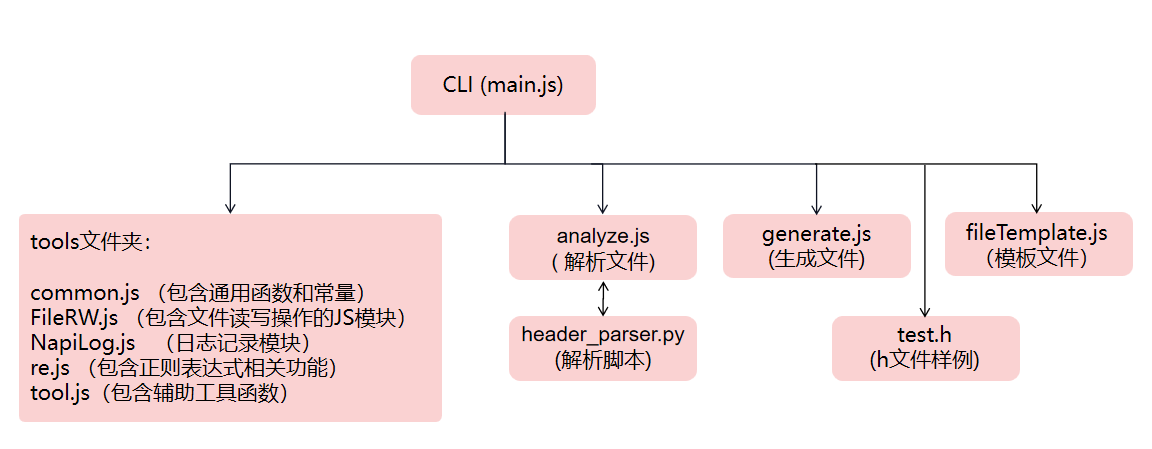
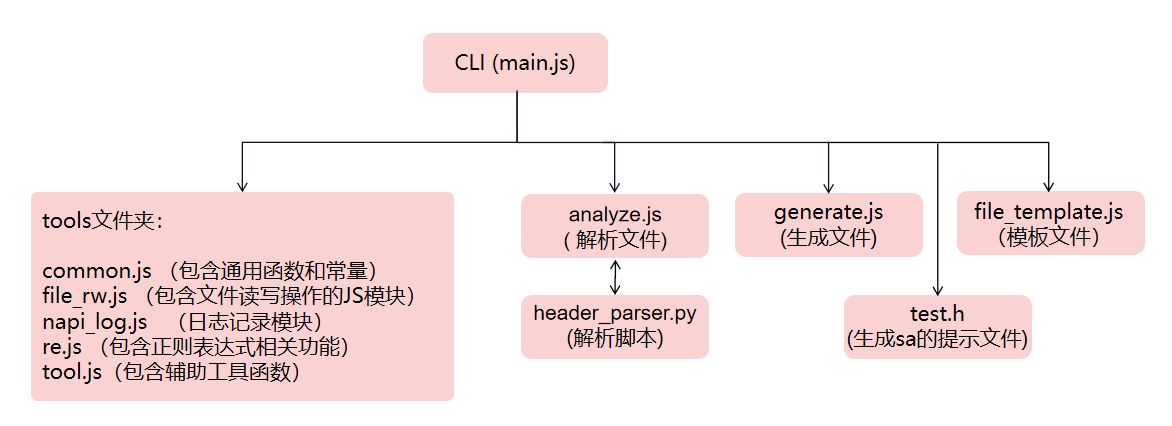
修改文件名 修改文档

Changed region(s): [[0.0, 0.061, 1.0, 0.946]]

diff --git a/src/cli/h2sa/src/gen/generate.js b/src/cli/h2sa/src/gen/generate.js
@@ -13,13 +13,13 @@
 * See the License for the specific language governing permissions and 
 * limitations under the License. 
 */
-const { NapiLog } = require('../tools/NapiLog');
+const { NapiLog } = require('../tools/napi_log');
 const { replaceAll, getTab } = require('../tools/tool');
 const re = require('../tools/re');
 const { iServiceHTemplate, proxyHTemplate, stubHTemplate, serviceHTemplate, proxyCppTemplate, proxyFuncTemplate,
     stubCppTemplate, stubInnerFuncTemplate, serviceCppTemplate, serviceFuncImplTemplate, clientCppTemplate, buildGnTemplate,
     buildGnTemplate41, bundleJsonTemplate, bundleJsonTemplate41, profileGnTemplate, profileGnTemplate41, profileJsonTemplate,
-    profileXmlTemplate, serviceCfgTemplate, serviceCfgTemplate41, serviceCfgGnTemplate, iServiceCppTemplate } = require('./fileTemplate');
+    profileXmlTemplate, serviceCfgTemplate, serviceCfgTemplate41, serviceCfgGnTemplate, iServiceCppTemplate } = require('./file_template');
 const { DATA_W_MAP, DATA_R_MAP, VECTOR_W_MAP, VECTOR_R_MAP, getParcelType, AllParseFileList, MarshallInfo,
     ProcessingClassList } = require('../tools/common');
 const numericTypes = ['short', 'int', 'long', 'long long', 'float', 'double'];

diff --git a/src/cli/h2sa/src/gen/main.js b/src/cli/h2sa/src/gen/main.js
@@ -17,17 +17,17 @@ const stdio = require('stdio');
 const fs = require('fs');
 const re = require('../tools/re');
 
-const { NapiLog } = require('../tools/NapiLog');
+const { NapiLog } = require('../tools/napi_log');
 const { print } = require('../tools/tool');
 const analyze = require('./analyze');
 const gen = require('./generate');
-const { writeFile, createFolder } = require('../tools/FileRW');
+const { writeFile, createFolder } = require('../tools/file_rw');
 
 let ops = stdio.getopt({
     'filename': { key: 'f', args: 1, description: '.h file', default: '' },
     'out': { key: 'o', args: 1, description: 'output directory', default: '.' },
     'loglevel': { key: 'l', args: 1, description: 'Log Level: 0~3', default: '1' },
-    'serviceId': { key: 's', args: 1, description: 'service register id: 9000~16777214', default: '9000' },
+    'serviceId': { key: 's', args: 1, description: 'service register id: 9000~16777214', default: '19000' },
     'versionTag': { key: 'v', args: 1, description: 'version tag: 4.1 / 3.2', default: '3.2' }
 });
 

diff --git a/src/cli/h2sa/src/gen/analyze.js b/src/cli/h2sa/src/gen/analyze.js
@@ -12,7 +12,7 @@
 * See the License for the specific language governing permissions and 
 * limitations under the License. 
 */
-const { NapiLog } = require('../tools/NapiLog');
+const { NapiLog } = require('../tools/napi_log');
 const fs = require('fs');
 const os = require('os');
 const { AllParseFileList } = require('../tools/common');

diff --git a/src/cli/h2sa/docs/usage/usage.md b/src/cli/h2sa/docs/usage/usage.md
@@ -1,193 +1,83 @@
-### Usage Guide
+## Develop Guide
 
-## 简介
+### service代码生成工具使用场景
 
-h2sa工具，即SERVICE框架生成工具，当开发者为OpenHarmony系统框架开发某些功能时，有时需要将这个功能包装成一个独立的服务进程运行在系统中，为了其它应用进程能够调用此服务，开发人员需要基于系统IPC通信框架编写一套远程接口调用实现。实现Service远程调用接口需要开发人员熟悉IPC通信框架，了解proxy/stub的继承与实现方式，掌握C++类型转为MessageParcel数据包的各种API方法，有一定的学习成本。而Service代码生成工具能够帮助使用者生成框架代码，提升开发效率。用户只需提供一个定义远程方法的.h头文件，工具会自动生成整个Service框架的代码，包含Ability注册、proxy/stub类实现、MessageParcel数据包构造、Service子系统编译及开机自启动相关配置文件。
+       当开发人员为OpenHarmony系统框架开发某些功能时，有时需要将这个功能包装成一个独立的服务进程运行在系统中，为了其它应用进程能够调用此服务，开发人员需要基于系统IPC通信框架编写一套远程接口调用实现。     Service代码生成工具能够帮助用户生成框架代码，提升开发效率。用户只需提供一个定义远程方法的.h头文件，工具会自动生成整个Service框架的代码，包含Ability注册、proxy/stub类实现、MessageParcel数据包构造、Service子系统编译及开机自启动相关配置文件。用户可基于框架代码专注于业务功能的编写。
 
-## 约束
+![image](../figures/service_file.png)
 
-系统：建议Ubuntu 20.04或者Windows 10
+---
 
-依赖版本：VS Code 1.62.0
+### service工具代码框架说明
 
-## 使用方法
+~~~
+napi_generator\src\cli\h2sa
 
-#### 命令行
+h2sa
+├── docs                                      //文档      
+├── README_ZH.md                              //usage,使用说明
+├── package.json                          //Node.js打包配置文件
+└── src
+    ├── gen
+    │   ├── analyze.js                    //包含用于分析C++头文件的逻辑。读取头文件内容；解析文件以提取类、方法、参数等信息。
+    │   ├── file_template.js               //包含生成代码时使用的模板字符串。模板中的占位符将在代码生成过程中被实际的数据替换，以生成所需的代码文件。（之后换成inl或者tmpl模板文件，并分出不同版本的文件夹，不同类型的文件）
+    │   ├── generate.js                   //包含核心的代码生成逻辑。调用analyze.js来获取分析结果；使用fileTemplate.js中的模板和分析结果来生成代码。
+    │   ├── header_parser.py              //脚本，与analyze.js协同工作，用于解析C++头文件
+    │   └── test.h                        //生成sa的提示文件
+    │   └── main.js                       //项目的入口。初始化日志记录和其它工具；解析命令行参数，以确定用户想要执行的操作；调用generate.js来启动代码生成过程。
+    └── tools
+            ├── common.js                     //包含整个项目中使用的通用函数和常量
+            ├── file_rw.js                     //包含文件读写操作的JavaScript模块
+            ├── napi_log.js                    //日志记录模块
+            ├── re.js                         //包含正则表达式相关功能的模块
+            └── tool.js                       //包含一些辅助工具函数
+~~~
 
-1. 安装python库 CppHeaderParser
+### 运行逻辑
 
-   ~~~
-   pip install CppHeaderParser
-   ~~~
+![image](../figures/service_runLogic.png)
 
-2. 安装typescript：在napi_generator/src/cli/h2sa/src目录下执行命令
+main.js为脚本入口，其中使用stdio.getopt获取参数，其中,参数详情如下： 
 
-   ~~~
-   npm i typescript
-   ~~~
-
-3. 安装stdio：在napi_generator/src/cli/h2sa目录下执行命令
-
-   ~~~
-   npm i stdio
-   ~~~
-
-4. 在napi_generator/src/cli/h2sa/src/gen目录下执行命令生成service框架代码：
-
-   ~~~
-   node main.js -f test.h
-   ~~~
-
-   其中,参数详情如下： 
    -f，定义远程服务的.h文件； 
-   -l，可选参数，日志级别（0-3），默认为1； 
-   -o，可选参数，生成框架代码输入到指定路径下； 
-   -s，可选参数，指定serviceID。 
-   -v，可选参数，指定版本（3.2和4.1，默认版本为3.2） 
 
-#### 生成物
+   -l,  日志级别（0-3），默认为1； 
 
-1. 输出testservice文件夹，其中的文件如下所示：
+   -o, 生成框架代码输入到指定路径下； 
 
-   ![](../figures/h2sa_outRes.png)
+   -s, 指定serviceID。 -
 
-   ~~~
-   ├── BUILD.gn                                             # 整个服务的编译文件，包含2个内容:1)服务端程序动态库编译  2)客户端可执行程序编译
-   ├── bundle.json                                          # 将服务包装成一个OpenHarmoney子系统组件，提供相关信息
-   ├── etc                                                  # 服务启动配置目录，如果服务不需要开机自动启动，可以删除此目录。
-   │   ├── BUILD.gn
-   │   └── test_service.cfg                                 # 服务自启动配置文件，编译烧录后会在/ect/init/下生成xxx_service.cfg启动文件
-   ├── include
-   │   ├── test_service.h                                   # 服务端头文件
-   │   ├── test_service_proxy.h                             # proxy 客户端头文件，为开发人员封装remote请求发送的处理
-   │   └── test_service_stub.h                              # stub 服务端头文件，为开发人员封装remote请求接收的处理
-   ├── interface
-   │   └── i_test_service.h                                 # 由用户提供的.h文件生成的remote接口文件，stub和proxy都基于此文件实现接口。
-   ├── sa_profile                                           
-   │   ├── 9000.json                                        # 服务配置文件
-   │   └── BUILD.gn                                      
-   └── src
-       ├── i_test_service.cpp                               # 接口实现文件
-       ├── test_client.cpp                                  # 客户端程序
-       ├── test_service.cpp                                 # 服务端程序
-       ├── test_service_proxy.cpp                           # 客户端代理实现
-       └── test_service_stub.cpp                            # 服务端 stub 实现
-   ~~~
+   -v, 指定版本（3.2和4.1，默认版本为3.2） 
 
-#### 应用和验证
+~~~
+let ops = stdio.getopt({
+    'filename': { key: 'f', args: 1, description: '.h file', default: '' },
+    'out': { key: 'o', args: 1, description: 'output directory', default: '.' },
+    'loglevel': { key: 'l', args: 1, description: 'Log Level: 0~3', default: '1' },
+    'serviceId': { key: 's', args: 1, description: 'service register id: 9000~16777214', default: '9000' },
+    'versionTag': { key: 'v', args: 1, description: 'version tag: 4.1 / 3.2', default: '3.2' }
+});
+~~~
 
-1. 将生成的testservice文件夹放在对应版本的源码根目录下
+### 开发指导
 
-2. 修改服务配置文件
+#### 适配新版本
 
-   在foundation/systemabilitymgr/samgr/interfaces/innerkits/samgr_proxy/include/system_ability_definition.h增加以下一行：
+用户可对工具进行二次开发。例如：当前工具适配的源码版本是4.1，需要适配其它版本时，可修改以下文件进行适配：
 
-   ```
-   TEST_SERVICE_ID                 = {serviceID},    //保证ID没有重复即可，例如：9016
-   ```
+**9月份会进行代码去重整改，预估适配方式如下，整改后如有出入，会进行修改**
 
-3. 修改子系统配置文件
+1.在main.js中，在allowedVersion数组中加入适配的版本号，如4.1统一为v4_1, 5.0统一为v5_0。
 
-   在build/subsystem_config.json中增加以下内容。
+2.在file_template.js中，以适配5.0源码为例，新增v5_0版本对应的bundle.json模板，对应的BUILD.gn模板；新增5.0版本的bundle.json,BUILD.gn模板路径。
 
-   ```
-   "testservice": {
-     "path":"testservice",
-     "name": "testservice" 
-   }
-   ```
+3.在generate.js中，在doGenerate方法、genFilesByTemplate方法、genFileNames方法中修改相应代码：当rootInfo.version为v5_0时，替换对应的BUILD.gn, bundle.json模板路径。
 
-4. 修改产品配置，如rk3568
+4.适配新版本需要增加其它配置，可在file_template.js中增加配置模板，并增加配置文件模板的路径，在generate.js中生成配置文件。
 
-   在vendor/kaihong/rk3568/config.json中增加以下内容：
+#### RoadMap
 
-   ```
-   {  
-    "subsystem": "testservice", 
-    "components": [
-     {
-      "component": "testservice_part",
-      "features": []
-     }
-    ]
-   }
-   ```
-
-5. 修改权限配置
-
-   在相应的产品目录的vendor/kaihong/rk3568/security_config/high_privilege_process_list.json中增加以下内容：
-
-   ```
-   {
-     "name": "testservice", 
-     "uid": "system",
-     "gid": ["root", "system"]
-   }
-   ```
-
-6. selinux权限配置
-
-   vendor/hihope/rk3568/config.json中"build_selinux"属性若为true， 即要配置selinux权限，应修改以下文件；若为false，无需修改
-
-   >   1. testservice/etc/sample_service.cfg
-   >
-   >      ```
-   >      "secon" : "u:r:testservice:s0"
-   >      ```
-   >
-   >   2. base/security/selinux_adapter/sepolicy/base/public/service_contexts
-   >
-   >      ```
-   >      9016                 u:object_r:sa_testservice:s0
-   >      ```
-   >
-   >   3. base/security/selinux_adapter/sepolicy/base/public/service.te
-   >
-   >      ```
-   >      type sa_testservice, sa_service_attr;
-   >      ```
-   >
-   >   4. base/security/selinux_adapter/sepolicy/ohos_policy/startup/init/system/init.te
-   >
-   >      ```
-   >      allow init testservice:process { getattr rlimitinh siginh transition };
-   >      ```
-   >
-   >   5. base/security/selinux/sepolicy/base/public/type.te
-   >
-   >      ```
-   >      type testservice, sadomain, domain;
-   >      ```
-   >
-   >   6. /base/security/selinux/sepolicy/base/te目录下增加新service的te文件，新增文件名即为服务名，例如：testservice.te
-   >
-   >      ```
-   >      allow testservice init_param:file { map open read };
-   >      allow testservice sa_testservice:samgr_class { add get };
-   >      ```
-
-7. 编码完成后，执行镜像编译命令
-
-   ~~~
-   ./build.sh --product-name 产品名
-   
-   若编译rk3568开发板，则执行
-   ./build.sh --product-name rk3568
-   ~~~
-
-8. 烧录镜像
-
-9. 运行验证
-
-   >验证一： shell登录开发板。 查看服务端进程是否已正常启动
-   >
-   >~~~
-   >ps -ef | grep testservice
-   >system         288     1 0 00:02:13 ?     00:00:00 testservice_sa  --- 服务进程已正常运行
-   >~~~
-   >
-   >验证二：运行客户端
-   >
-   >~~~
-   >/system/bin/testclient 
-   >~~~
+| 时间点 | 预期任务                                                     | 验收标准                                                     | 完成情况      |
+| :----- | ------------------------------------------------------------ | ------------------------------------------------------------ | ------------- |
+| 9月份  | 1，代码去重方案提供（不同版本模板，proxy-stub框架，hidumper框架，hitrace）；<br />2，适配5.0release版本，增加代码中hidump、hitrace等日志跟踪定位工具的使用； | 1，设计文档；<br />2，适配5.0时，可以编译出对应版本的工具，且编译验证成功 | 预计2024.9.24 |
+| 10月份 | 增加testapp调用 sa接口，包括死亡监听；                       | 杀掉服务后，有信息                                           |               |

diff --git a/src/cli/h2sa/docs/guide/h2sa_Develop_Guide.md b/src/cli/h2sa/docs/guide/h2sa_Develop_Guide.md
@@ -25,7 +25,7 @@ h2sa
     └── src
         ├── gen
         │   ├── analyze.js                    //包含用于分析C++头文件的逻辑。读取头文件内容；解析文件以提取类、方法、参数等信息。
-        │   ├── fileTemplate.js               //包含生成代码时使用的模板字符串。模板中的占位符将在代码生成过程中被实际的数据替换，以生成所需的代码文件。（之后换成inl或者tmpl模板文件，并分出不同版本的文件夹，不同类型的文件）
+        │   ├── file_template.js               //包含生成代码时使用的模板字符串。模板中的占位符将在代码生成过程中被实际的数据替换，以生成所需的代码文件。（之后换成inl或者tmpl模板文件，并分出不同版本的文件夹，不同类型的文件）
         │   ├── generate.js                   //包含核心的代码生成逻辑。调用analyze.js来获取分析结果；使用fileTemplate.js中的模板和分析结果来生成代码。
         │   ├── header_parser.py              //脚本，与analyze.js协同工作，用于解析C++头文件
         │   └── main.js                       //项目的入口。初始化日志记录和其它工具；解析命令行参数，以确定用户想要执行的操作；调用generate.js来启动代码生成过程。
